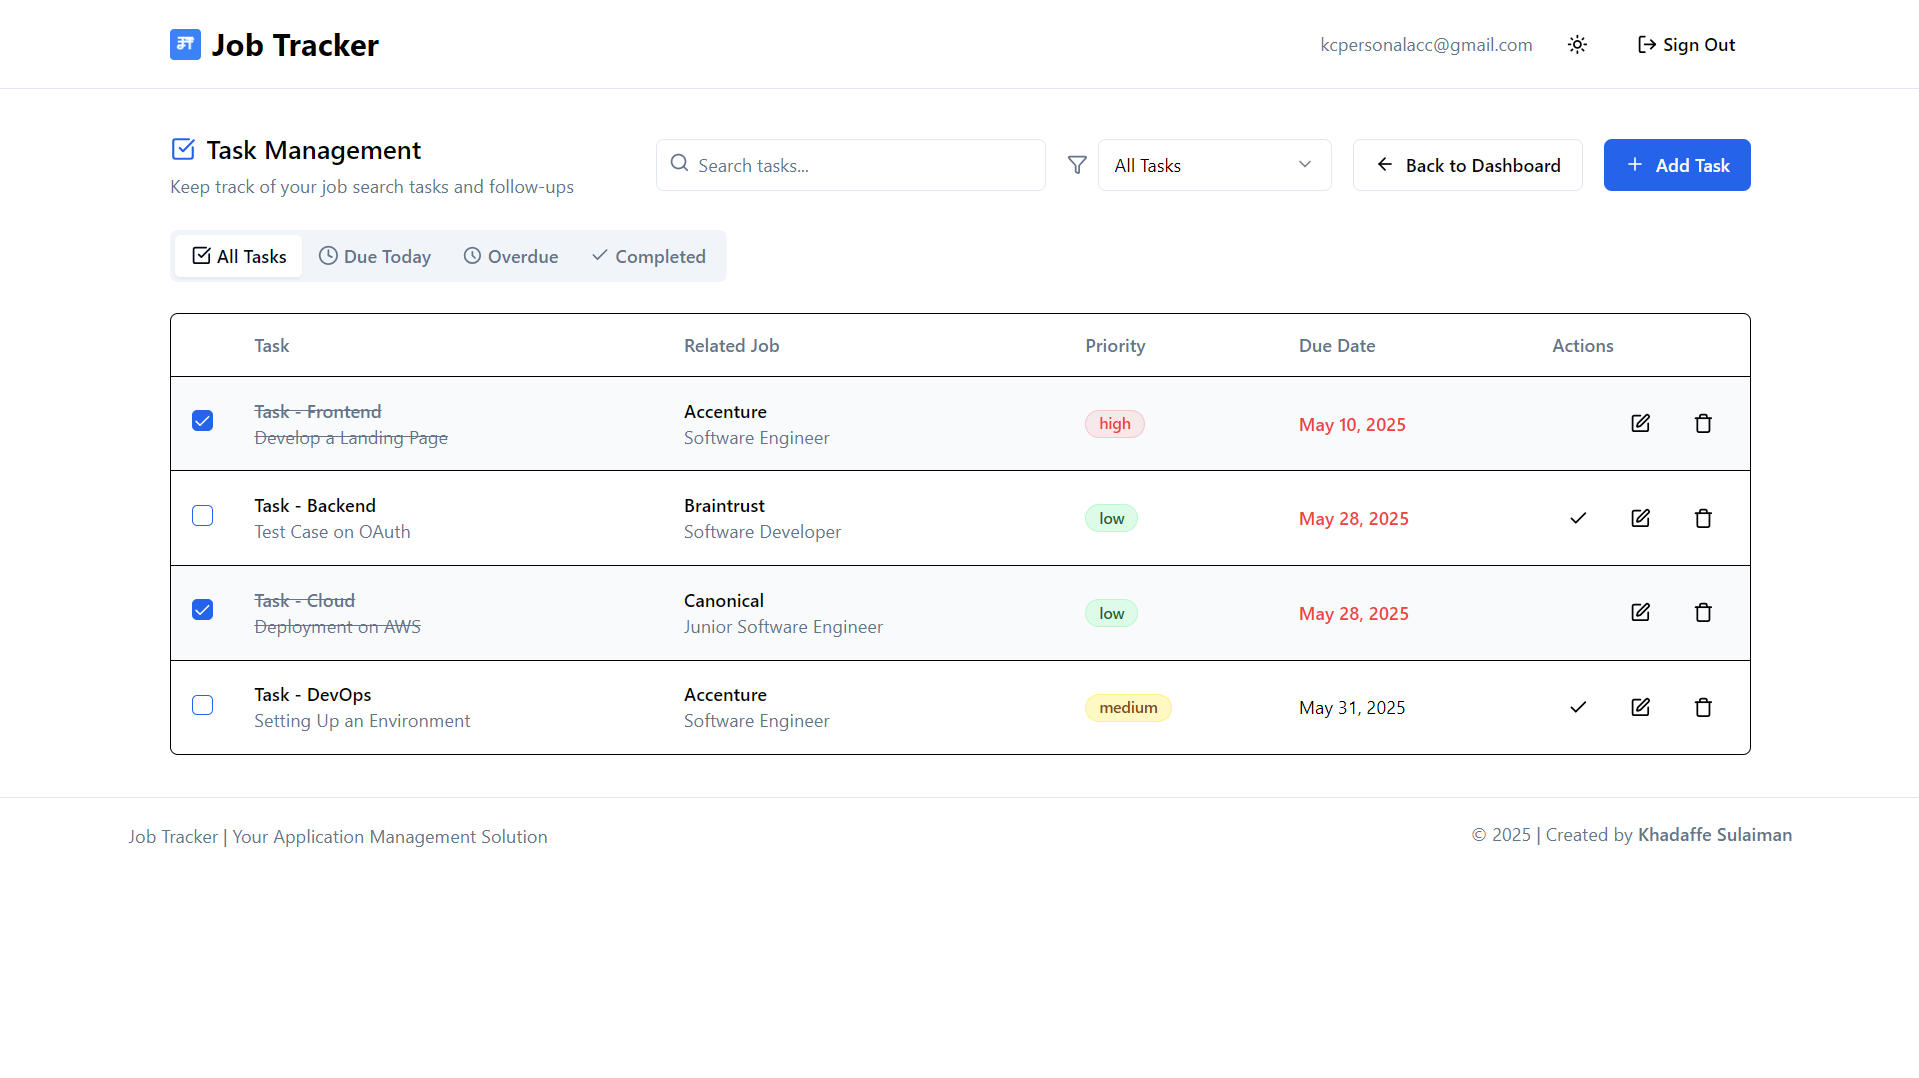
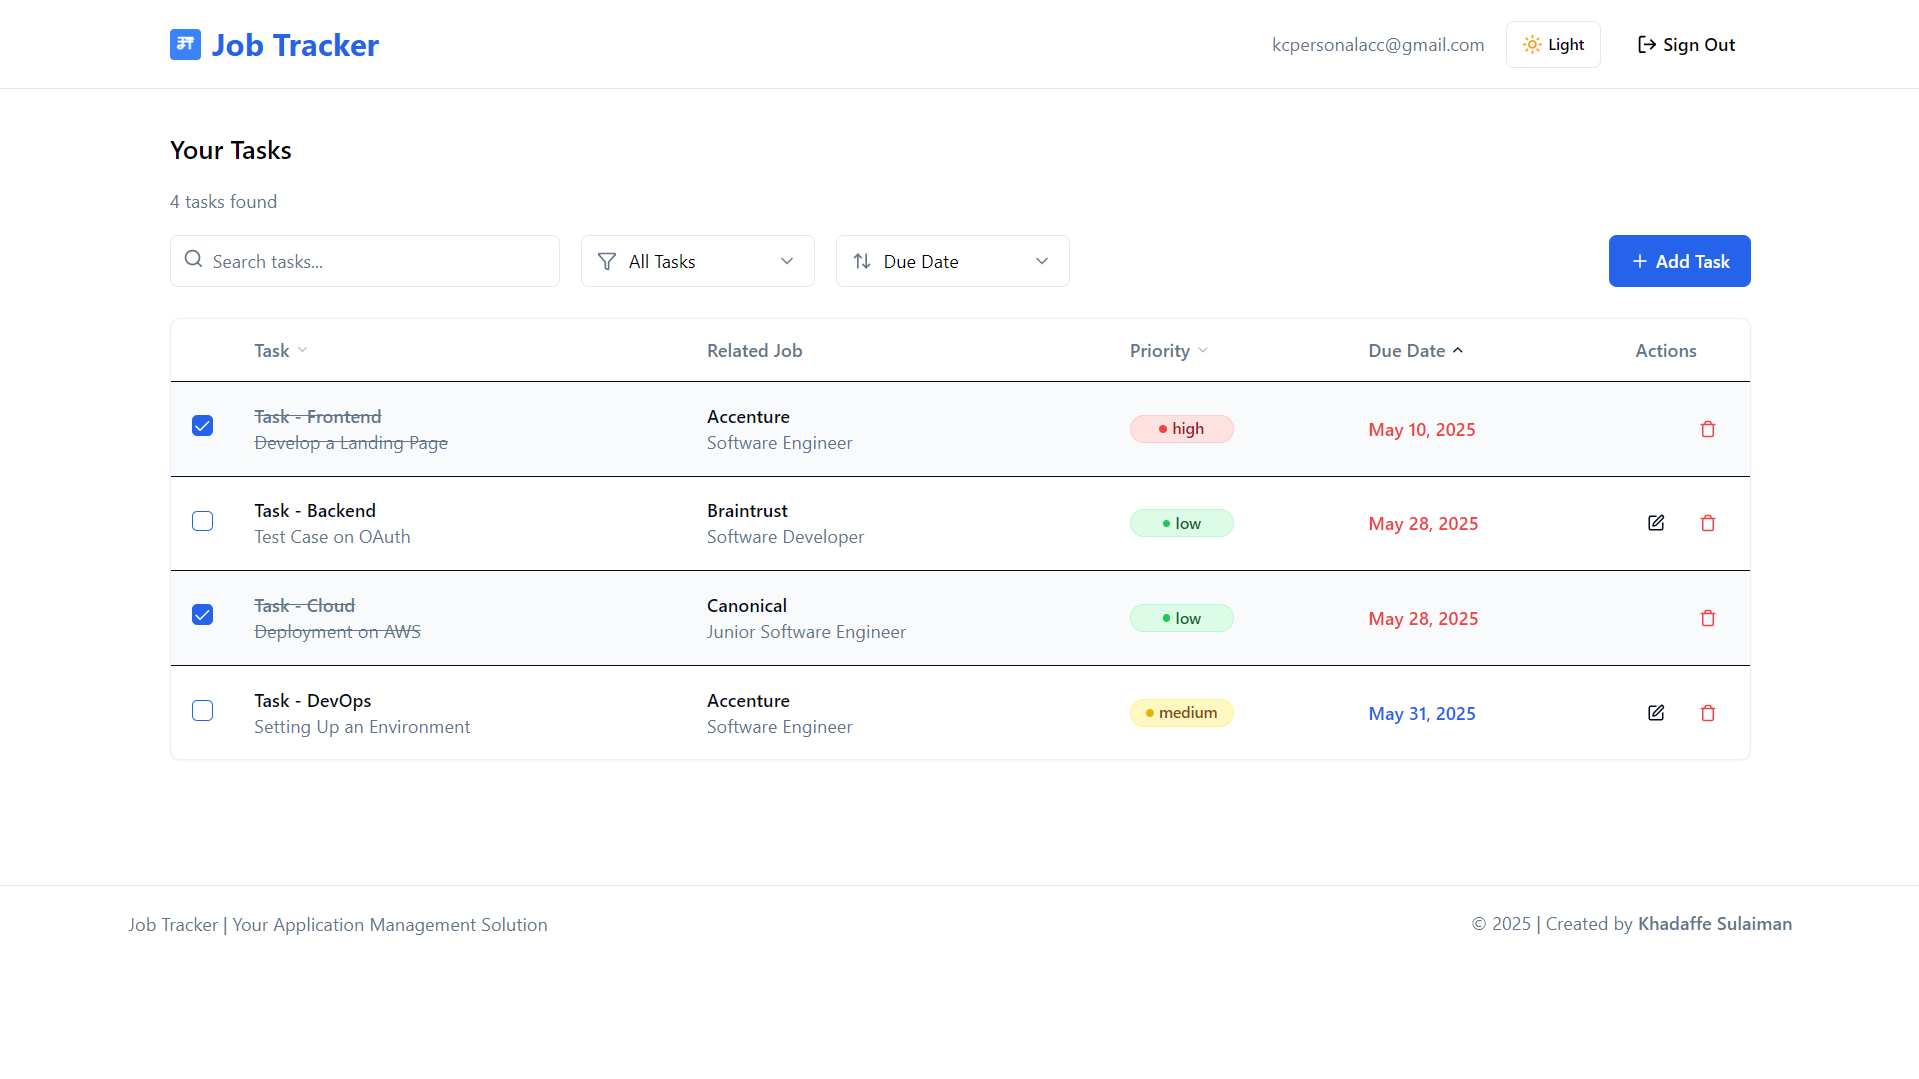
Fix

diff --git a/src/pages/Dashboard.tsx b/src/pages/Dashboard.tsx
@@ -388,29 +388,7 @@ const Dashboard: React.FC = () => {
               Your Job Applications
             </motion.h2>
             
-            {/* Desktop Add Job Button */}
-            <motion.div
-              className="hidden sm:block"
-              whileHover={{ scale: 1.05 }}
-              whileTap={{ scale: 0.95 }}
-              initial={{ opacity: 0, y: -10 }}
-              animate={{ opacity: 1, y: 0 }}
-              transition={{ delay: 0.4 }}
-            >
-              <Button
-                onClick={handleAddJob}
-                className="flex items-center gap-1 relative overflow-hidden"
-              >
-                <Plus className="h-4 w-4" />
-                <span>Add Job</span>
-                <motion.div 
-                  className="absolute inset-0 bg-white/20" 
-                  initial={{ x: "-100%" }}
-                  whileHover={{ x: "100%" }}
-                  transition={{ duration: 0.8, ease: "easeInOut" }}
-                />
-              </Button>
-            </motion.div>
+
             
             {/* Mobile Add Button - Fixed Position */}
             <motion.div
@@ -441,7 +419,7 @@ const Dashboard: React.FC = () => {
 
           {/* Search and Filters - Responsive Design */}
           <motion.div 
-            className="flex flex-col sm:flex-row space-y-3 sm:space-y-0 sm:space-x-4 w-full"
+            className="flex flex-col sm:flex-row space-y-3 sm:space-y-0 sm:space-x-4 w-full items-center relative"
             initial={{ opacity: 0, y: 20 }}
             animate={{ opacity: 1, y: 0 }}
             transition={{ duration: 0.5, delay: 0.4 }}
@@ -487,7 +465,7 @@ const Dashboard: React.FC = () => {
               </Select>
             </motion.div>
             
-            {/* Desktop Export Button */}
+            {/* Export Button */}
             <motion.div
               className="hidden sm:block"
               whileHover={{ scale: 1.05 }}
@@ -499,9 +477,34 @@ const Dashboard: React.FC = () => {
                 className="flex items-center gap-1"
               >
                 <Download className="h-4 w-4" />
-                <span className="hidden sm:inline">Export</span>
+                <span>Export</span>
               </Button>
             </motion.div>
+
+            {/* Add Job Button - Absolute Right Edge */}
+            <motion.div
+              className="hidden sm:block absolute right-0"
+              whileHover={{ scale: 1.05 }}
+              whileTap={{ scale: 0.95 }}
+              initial={{ opacity: 0, y: -10 }}
+              animate={{ opacity: 1, y: 0 }}
+              transition={{ delay: 0.4 }}
+            >
+              <Button
+                onClick={handleAddJob}
+                className="flex items-center gap-1 relative overflow-hidden"
+              >
+                <Plus className="h-4 w-4" />
+                <span>Add Job</span>
+                <motion.div 
+                  className="absolute inset-0 bg-white/20" 
+                  initial={{ x: "-100%" }}
+                  whileHover={{ x: "100%" }}
+                  transition={{ duration: 0.8, ease: "easeInOut" }}
+                />
+              </Button>
+            </motion.div>
+
           </motion.div>
         </motion.div>
 
@@ -706,26 +709,41 @@ const Dashboard: React.FC = () => {
         <AnimatePresence mode="wait">
           {loading ? (
             <motion.div 
-              className="flex justify-center py-12"
+              className="relative mt-8 bg-card hover:shadow-md transition-all duration-300 border-primary/10 rounded-md overflow-hidden"
               key="loading"
               initial={{ opacity: 0 }}
               animate={{ opacity: 1 }}
               exit={{ opacity: 0 }}
-              transition={{ duration: 0.3 }}
+              transition={{ duration: 0.2 }}
             >
+              <JobTable
+                jobs={[]}
+                onEdit={handleEditJob}
+                onDelete={handleDeleteJob}
+                sortField={sortField}
+                sortDirection={sortDirection}
+                onSort={handleSort}
+              />
               <motion.div 
-                className="rounded-full h-12 w-12 border-t-2 border-b-2 border-primary"
-                animate={{ rotate: 360 }}
-                transition={{ duration: 1.5, repeat: Infinity, ease: "linear" }}
-              ></motion.div>
+                className="absolute inset-0 flex items-center justify-center bg-background/80"
+                initial={{ opacity: 0 }}
+                animate={{ opacity: 1 }}
+                transition={{ duration: 0.2 }}
+              >
+                <motion.div 
+                  className="rounded-full h-12 w-12 border-t-2 border-b-2 border-primary"
+                  animate={{ rotate: 360 }}
+                  transition={{ duration: 1.5, repeat: Infinity, ease: "linear" }}
+                ></motion.div>
+              </motion.div>
             </motion.div>
           ) : (
             <motion.div
               key="table"
-              initial={{ opacity: 0, y: 20 }}
+              initial={{ opacity: 0, y: 0 }}
               animate={{ opacity: 1, y: 0 }}
               exit={{ opacity: 0, y: -20 }}
-              transition={{ duration: 0.5 }}
+              transition={{ duration: 0.3 }}
               variants={itemVariants}
             >
               <motion.div 

diff --git a/src/pages/TaskManager.tsx b/src/pages/TaskManager.tsx
@@ -250,7 +250,7 @@ const TaskManager: React.FC = () => {
                 transition={{ duration: 2, repeat: 0, ease: "easeInOut" }}
               />
               <span className="hidden sm:inline">Job Tracker</span>
-              <span className="sm:hidden">JT</span>
+              <span className="sm:hidden">Job Tracker</span>
             </Link>
           </motion.h1>
           
@@ -370,29 +370,7 @@ const TaskManager: React.FC = () => {
               Your Tasks
             </motion.h2>
             
-            {/* Desktop Add Task Button */}
-            <motion.div
-              className="hidden sm:block"
-              whileHover={{ scale: 1.05 }}
-              whileTap={{ scale: 0.95 }}
-              initial={{ opacity: 0, y: -10 }}
-              animate={{ opacity: 1, y: 0 }}
-              transition={{ delay: 0.4 }}
-            >
-              <Button
-                onClick={handleAddTask}
-                className="flex items-center gap-1 relative overflow-hidden"
-              >
-                <Plus className="h-4 w-4" />
-                <span>Add Task</span>
-                <motion.div 
-                  className="absolute inset-0 bg-white/20" 
-                  initial={{ x: "-100%" }}
-                  whileHover={{ x: "100%" }}
-                  transition={{ duration: 0.8, ease: "easeInOut" }}
-                />
-              </Button>
-            </motion.div>
+
             
             {/* Mobile Add Button - Fixed Position */}
             <motion.div
@@ -423,7 +401,7 @@ const TaskManager: React.FC = () => {
 
           {/* Search and Filters - Responsive Design */}
           <motion.div 
-            className="flex flex-col sm:flex-row space-y-3 sm:space-y-0 sm:space-x-4 w-full"
+            className="flex flex-col sm:flex-row space-y-3 sm:space-y-0 sm:space-x-4 w-full relative"
             initial={{ opacity: 0, y: 20 }}
             animate={{ opacity: 1, y: 0 }}
             transition={{ duration: 0.5, delay: 0.4 }}
@@ -490,6 +468,30 @@ const TaskManager: React.FC = () => {
                   <SelectItem value="title">Title</SelectItem>
                 </SelectContent>
               </Select>
+            </motion.div>
+            
+            {/* Add Task Button - Absolute Right Edge */}
+            <motion.div
+              className="hidden sm:block absolute right-0"
+              whileHover={{ scale: 1.05 }}
+              whileTap={{ scale: 0.95 }}
+              initial={{ opacity: 0, y: -10 }}
+              animate={{ opacity: 1, y: 0 }}
+              transition={{ delay: 0.4 }}
+            >
+              <Button
+                onClick={handleAddTask}
+                className="flex items-center gap-1 relative overflow-hidden"
+              >
+                <Plus className="h-4 w-4" />
+                <span>Add Task</span>
+                <motion.div 
+                  className="absolute inset-0 bg-white/20" 
+                  initial={{ x: "-100%" }}
+                  whileHover={{ x: "100%" }}
+                  transition={{ duration: 0.8, ease: "easeInOut" }}
+                />
+              </Button>
             </motion.div>
           </motion.div>
         </motion.div>
